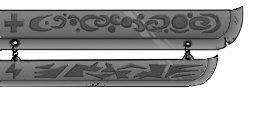
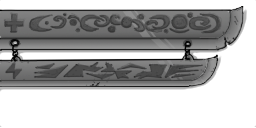
* health / energy particle effects * drop shadow on status bars

Changed region(s): [[0.0, 0.0625, 0.9688, 0.4688], [0.0, 0.4375, 0.875, 0.7188]]

diff --git a/src/views/helpers/StatusBars.js b/src/views/helpers/StatusBars.js
@@ -1,7 +1,10 @@
 import ui.View as View;
 import ui.ImageView as ImageView;
+import src.lib.ParticleEngine as ParticleEngine;
 
 exports = Class(ImageView, function(supr) {
+
+	var random = Math.random;
 
 	var controller,
 		gameView,
@@ -9,9 +12,13 @@ exports = Class(ImageView, function(supr) {
 		FRAME_WIDTH = 256,
 		FRAME_HEIGHT = 128,
 		HEALTH_X = 27,
+		HEALTH_Y = 23,
 		HEALTH_FILL = 203,
 		ENERGY_X = 27,
-		ENERGY_FILL = 183;
+		ENERGY_Y = 71,
+		ENERGY_FILL = 183,
+		SPARK_HEALTH = "resources/images/game/particles/spark_health.png",
+		SPARK_ENERGY = "resources/images/game/particles/spark_energy.png";
 
 	this.init = function(opts) {
 		opts.width = FRAME_WIDTH;
@@ -58,6 +65,14 @@ exports = Class(ImageView, function(supr) {
 			image: "resources/images/game/ui/status_bar_energy.png",
 			canHandleEvents: false
 		});
+
+		this.pEngine = new ParticleEngine({
+			parent: this,
+			width: FRAME_WIDTH,
+			height: FRAME_HEIGHT,
+			initCount: 20,
+			initImage: "resources/images/game/particles/spark_energy.png"
+		});
 	};
 
 	this.reset = function(config) {
@@ -69,20 +84,40 @@ exports = Class(ImageView, function(supr) {
 	};
 
 	this.step = function(dt) {
-		model.healthPct = (model.healthTargetPct + 4 * model.healthPct) / 5;
-		model.energyPct = (model.energyTargetPct + 4 * model.energyPct) / 5;
+		var hcs = this.healthClipper.style;
+		var ecs = this.energyClipper.style;
+		var initialHealth = hcs.width;
+		var initialEnergy = ecs.width;
+		model.healthPct = (model.healthTargetPct + 5 * model.healthPct) / 6;
+		model.energyPct = (model.energyTargetPct + 5 * model.energyPct) / 6;
 
 		if (model.healthPct) {
-			this.healthClipper.style.width = HEALTH_X + model.healthPct * HEALTH_FILL;
+			hcs.width = HEALTH_X + model.healthPct * HEALTH_FILL;
 		} else {
-			this.healthClipper.style.width = 0;
+			hcs.width = 0;
 		}
 
 		if (model.energyPct) {
-			this.energyClipper.style.width = ENERGY_X + model.energyPct * ENERGY_FILL;
+			ecs.width = ENERGY_X + model.energyPct * ENERGY_FILL;
 		} else {
-			this.energyClipper.style.width = 0;
+			ecs.width = 0;
 		}
+
+		var dh = hcs.width - initialHealth;
+		if (dh > 0.1) {
+			this.emitGainParticle(hcs.width, HEALTH_Y, SPARK_HEALTH);
+		} else if (dh < -0.1) {
+			this.emitLossParticle(hcs.width, HEALTH_Y, SPARK_HEALTH);
+		}
+
+		var de = ecs.width - initialEnergy;
+		if (de > 0.1) {
+			this.emitGainParticle(ecs.width, ENERGY_Y, SPARK_ENERGY);
+		} else if (de < -0.1) {
+			this.emitLossParticle(ecs.width, ENERGY_Y, SPARK_ENERGY);
+		}
+
+		this.pEngine.runTick(dt);
 	};
 
 	this.setHealthPercent = function(pct, instant) {
@@ -93,5 +128,52 @@ exports = Class(ImageView, function(supr) {
 	this.setEnergyPercent = function(pct, instant) {
 		model.energyTargetPct = pct;
 		instant && (model.energyPct = pct);
+	};
+
+	this.emitGainParticle = function(x, y, img) {
+		var data = this.pEngine.obtainParticleArray(1),
+			pObj = data[0],
+			size = 10 + random() * 20,
+			ttl = 500,
+			stop = -1000 / ttl;
+
+		pObj.x = x - size / 2;
+		pObj.y = y - size / 2 + random() * 10 - 5;
+		pObj.r = random() * 6.28;
+		pObj.dr = random() * 6.28 - 3.14;
+		pObj.ddr = stop * pObj.dr;
+		pObj.anchorX = pObj.anchorY = size / 2;
+		pObj.width = pObj.height = size;
+		pObj.dscale = stop;
+		pObj.dopacity = stop;
+		pObj.image = img;
+		pObj.ttl = ttl;
+
+		this.pEngine.emitParticles(data);
+	};
+
+	this.emitLossParticle = function(x, y, img) {
+		var data = this.pEngine.obtainParticleArray(1),
+			pObj = data[0],
+			size = 16 + random() * 32,
+			ttl = 500,
+			stop = -1000 / ttl;
+
+		pObj.x = x - size / 2;
+		pObj.dx = -30 - random() * 90;
+		pObj.ddx = stop * pObj.dx;
+		pObj.y = y - size / 2 + random() * 10 - 5;
+		pObj.dy = -90 - random() * 30;
+		pObj.ddy = stop * pObj.dy;
+		pObj.r = random() * 6.28;
+		pObj.dr = random() * 6.28 - 3.14;
+		pObj.ddr = stop * pObj.dr;
+		pObj.anchorX = pObj.anchorY = size / 2;
+		pObj.width = pObj.height = size;
+		pObj.dscale = stop;
+		pObj.image = img;
+		pObj.ttl = ttl;
+
+		this.pEngine.emitParticles(data);
 	};
 });
